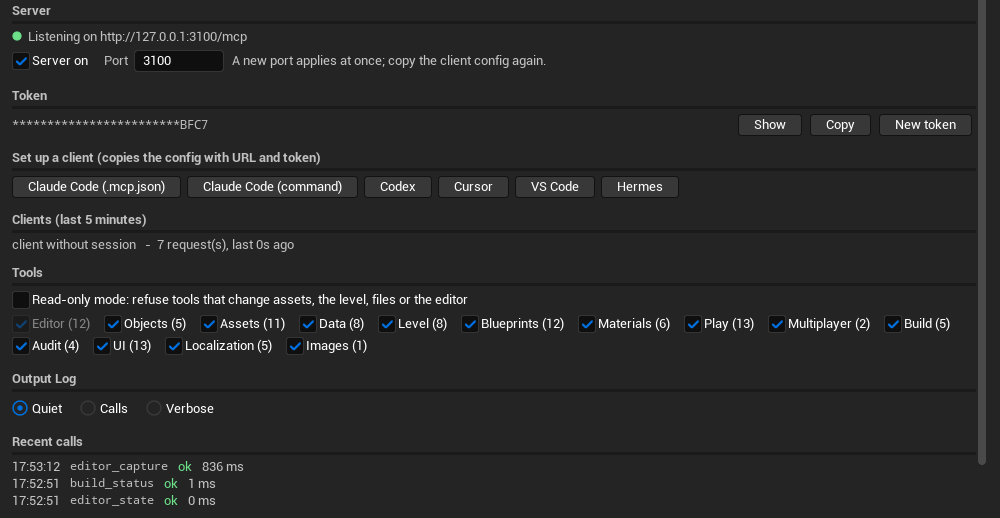
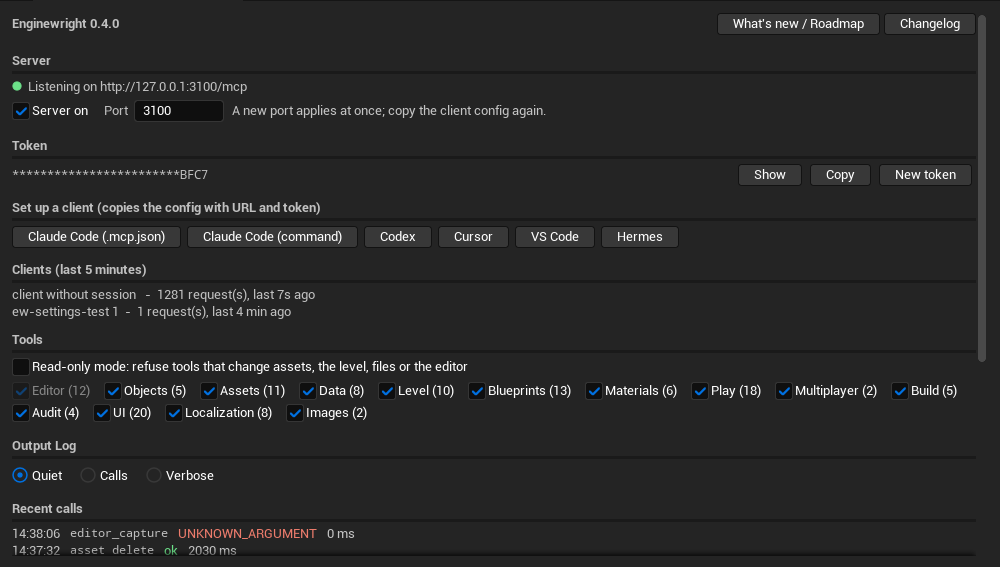
README What's new: actor_preview demo image (image_compose) and the 0.4.0 panel

diff --git a/README.md b/README.md
@@ -23,7 +23,13 @@ An Unreal Engine editor plugin that runs a [Model Context Protocol](https://mode
 - MVVM: `viewmodel_*` tools edit view models and bindings, in an optional plugin.
 - Reliability sweep: every tool was run on a real game project (RagnaCook) with 11 fixes, see [docs/RELIABILITY_0.4.md](docs/RELIABILITY_0.4.md).
 
-<!-- WHATS_NEW_MEDIA -->
+![actor_preview: the same actor class with BeginPlay off and on, photographed without Play In Editor and put side by side by image_compose](docs/media/actor-preview.png)
+
+*Above: `actor_preview` builds an actor class like the game does (constructor, then BeginPlay and a few ticks) in a preview world and photographs it. Left: constructor only. Right: after BeginPlay the actor placed its own props. No Play In Editor, nothing left in the level.*
+
+The panel now shows the version, with buttons to the roadmap and the changelog on GitHub:
+
+![Enginewright panel 0.4.0 with the What's new / Roadmap and Changelog buttons](docs/media/panel.png)
 
 Full notes: [v0.4.0 release notes](docs/release-notes/v0.4.0.md).
 
